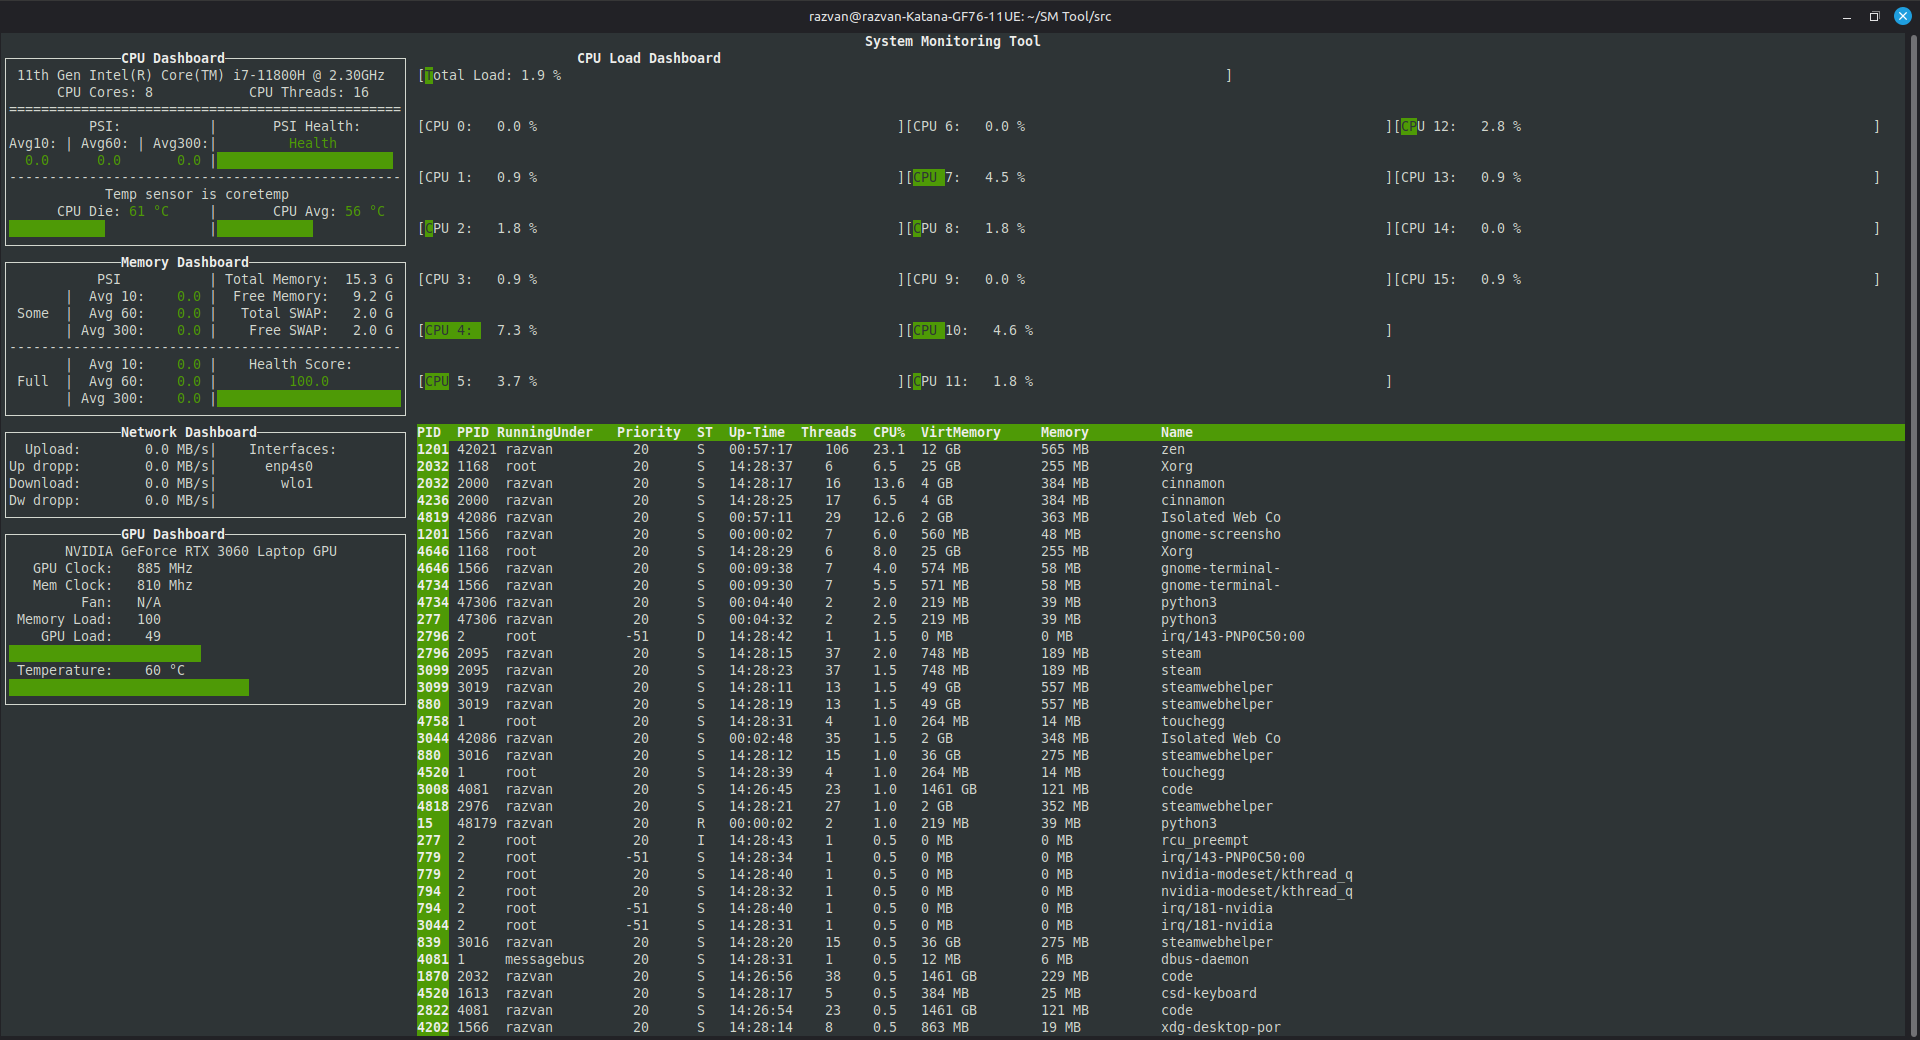
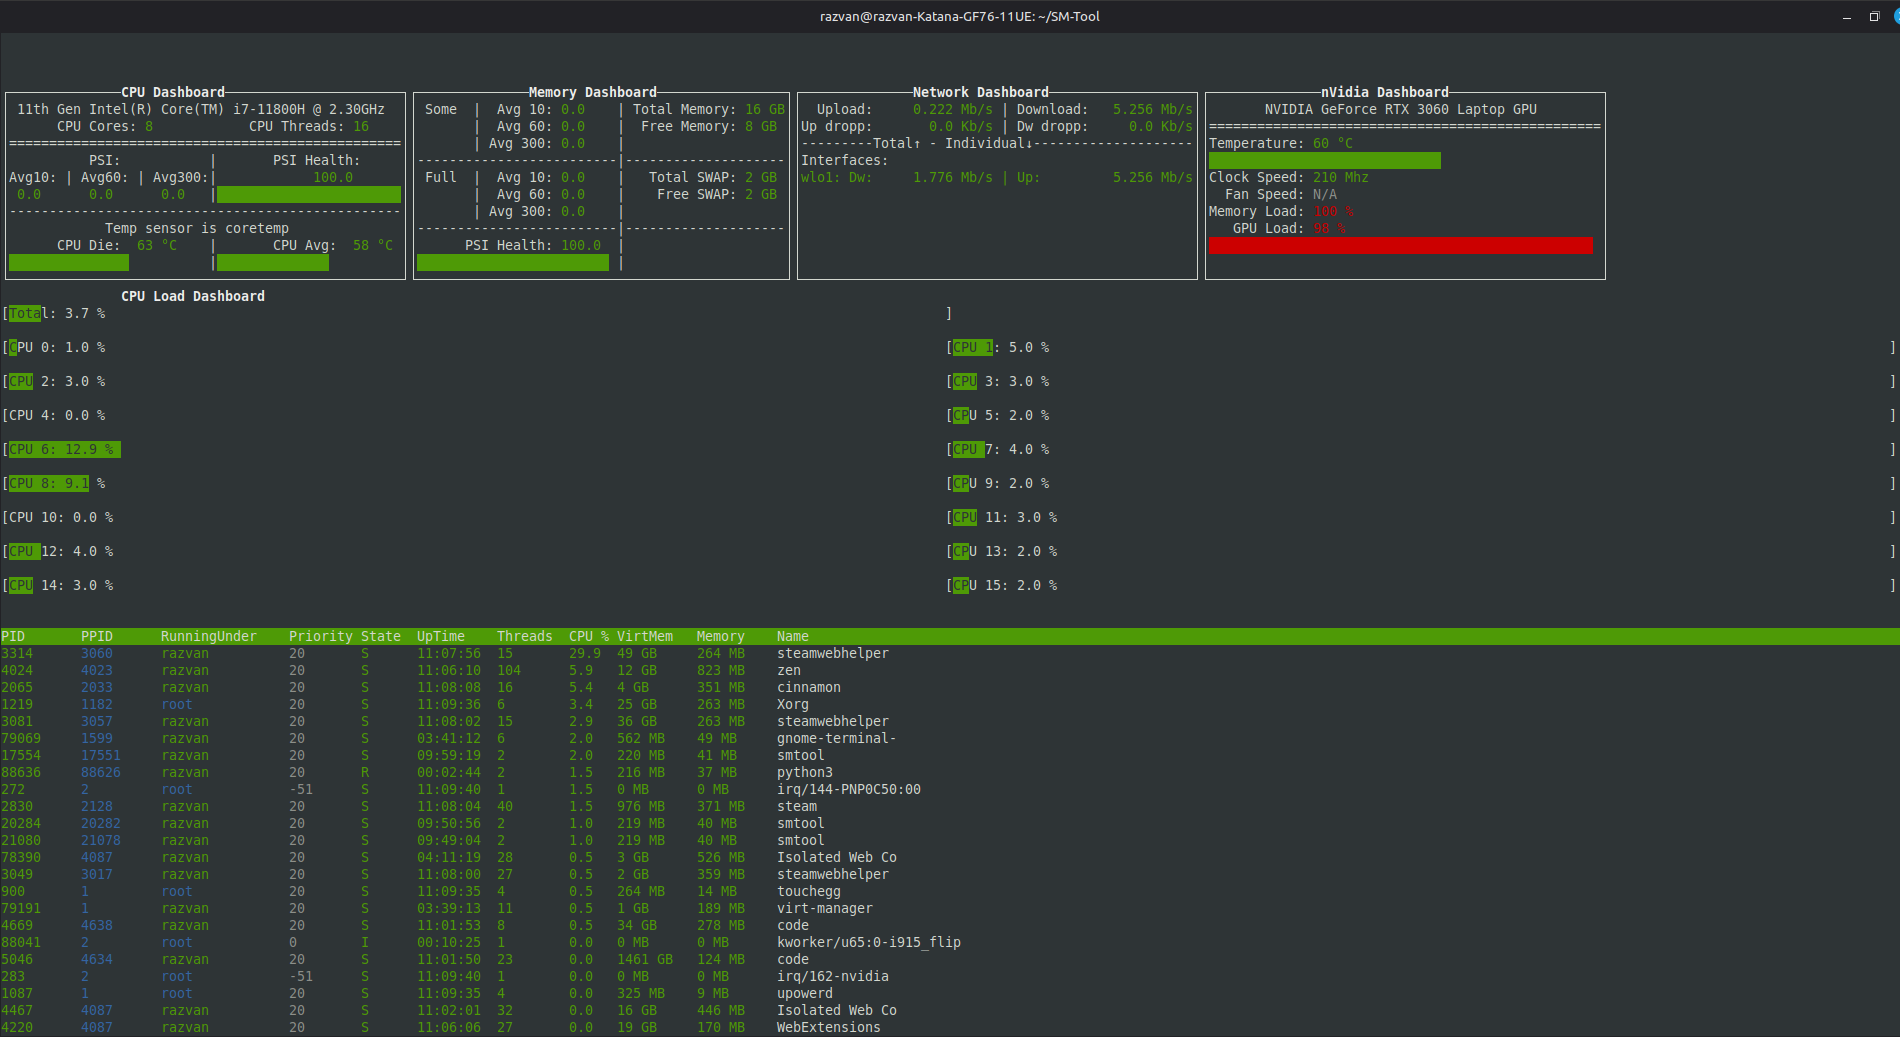
Reduced memory churn in the process dashboard. Small minor bugfixes

diff --git a/src/ui/formatters.py b/src/ui/formatters.py
@@ -13,7 +13,7 @@ def time_formatter(sec:float) -> str:
     sec= int(sec)
     h, remainder = divmod(sec, 3600)
     m, s = divmod(remainder, 60)
-    return f" {h:02}:{m:02}:{s:02} "
+    return f"{h:02}:{m:02}:{s:02} "
 
 class PressureFormatter:
     """
@@ -609,7 +609,7 @@ class NvidiaFormatter:
             formatted_nvidia_output[6].style= formatted_gpu_load_attr
 
 class ProcessFormatter:
-    __slots__ = ("formatted_processes_output",)
+    __slots__ = ("formatted_processes_output")
 
     def __init__(self):
         self.formatted_processes_output = []
@@ -630,39 +630,49 @@ class ProcessFormatter:
         for idx, (pid, process) in enumerate(processes.items()):
 
             if idx >= len(out):
-                out.append([None] * 11)
+                out.append([TextStyle("N/A", 3) for _ in range(11)])
 
             row = out[idx]
             proc_user = usernames[process.uid]
 
-            row[0] = (format(pid, "<10"), 0)
+            row[0].value = format(pid, "<10")
+            row[0].style= 0
 
-            row[1] = (format(process.ppid, "<10"), 5)
+            row[1].value = format(process.ppid, "<10")
+            row[1].style= 5
 
-            row[2] = (format(proc_user, "<16.16"), 0 if proc_user in current_users else (5 if proc_user == "root" else 3))
+            row[2].value = format(proc_user, "<16.16")
+            row[2].style = 0 if proc_user in current_users else (5 if proc_user == "root" else 3)
 
-            row[3] = (format(process.priority, "<9"), 3)
+            row[3].value = format(process.priority, "<9") 
+            row[3].style = 3
 
-            row[4] = (format(process.state, "<7"), 0)
+            row[4].value = format(process.state, "<7")
+            row[4].style = 0
 
-            row[5] = (time_formatter(process.process_up_time), 0)
+            row[5].value = time_formatter(process.process_up_time)
+            row[5].style = 0
 
-            row[6] = (format(process.num_threads, "<9"), 0)
+            row[6].value = format(process.num_threads, "<9")
+            row[6].style = 0
 
             cpu = process.cpu_load
-            row[7] = (format(cpu, "<6"), 0 if cpu < 50 else 1 if cpu < 80 else 2)
+            row[7].value = format(cpu, "<6.6")
+            row[7].style = 0 if cpu < 50 else 1 if cpu < 80 else 2
 
             if process.vsize > 1024:
-                row[8] = (f"{(process.vsize // 1024) * 1.048576:<10.0f} GB", 0)
+                row[8].value = f"{(process.vsize // 1024) * 1.048576:<1.0f} {"GB":<6}"
             else:
-                row[8] = (f"{process.vsize * 1.048576:<10.0f} MB", 0)
+                row[8].value = f"{process.vsize * 1.048576:<1.0f} {"MB":<6}"
+
+            row[8].style= 0
 
             if process.rss > 1024:
-                row[9] = (f"{(process.rss // 1024) * 1.048576:<10.0f} GB", 0)
+                row[9].value = f"{(process.rss // 1024) * 1.048576:<1.0f} {"GB":<6}"
             else:
-                row[9] = (f"{process.rss * 1.048576:<10.0f} MB", 0)
+                row[9].value = f"{process.rss * 1.048576:<1.0f} {"MB":<6}"
 
-            row[10] = (format(process.name, "<50"), 4)
+            row[9].style= 0
 
-
-            
+            row[10].value = format(process.name, "<50")
+            row[10].style= 4

diff --git a/src/ui/dashboards/processes.py b/src/ui/dashboards/processes.py
@@ -14,6 +14,7 @@ class ProcessDashboard:
         "__sorted_process_content_list",
         "__dashboard_disabled",
         "__widths",
+        "positions_list"
     )
 
     def __init__(self, stdscr: curses.window, cpu_load_max_y: int) -> object:
@@ -68,8 +69,6 @@ class ProcessDashboard:
 
     def visible_content(self, scroll_pos: int, sorted_process_list: list) -> list:
         list_length= len(sorted_process_list) - 1
-        if scroll_pos <0:
-            scroll_pos= 0
 
         if scroll_pos > list_length:
             scroll_pos= list_length
@@ -100,13 +99,21 @@ class ProcessDashboard:
             "Memory",
             "Name",
         )
-
+        
+        #pre-calculate the positions
+        positions_list= []
+        position_idx= 0
         # Build format string dynamically
         fmt_parts = []
         for w in __widths[:-1]:
+            position_idx+= w
+            positions_list.append(position_idx)
+
             fmt_parts.append(f"{{:<{w}}}")
+
         fmt_parts.append(f"{{:<{self.window_max_columns}}}")  # last column expands
 
+        self.positions_list= positions_list
         self.header_format= header_format = "".join(fmt_parts)
         header_line = header_format.format(*headers)
 
@@ -120,8 +127,9 @@ class ProcessDashboard:
         
         start_y= self.start_y + 1 #leave space for header
 
+        positions_list= self.positions_list
+
         window_max_columns= self.window_max_columns - 2
-        __widths= self.__widths
 
         style_map= self.style_map
 
@@ -129,21 +137,17 @@ class ProcessDashboard:
         process_dashboard= self.process_dashboard
 
         for row_idx, process in enumerate(__sorted_process_content_list):
-            text, style= process[0]
-            attr= style_map[style]
 
-            column_width= __widths[0]
+            attr= style_map[process[0].style]
 
-            process_dashboard.addnstr(start_y + row_idx, 0, text, window_max_columns - column_width, attr)
+            process_dashboard.addnstr(start_y + row_idx, 0, process[0].value, window_max_columns, attr)
             
-            for col in range(1, 11):
-                reading, style = process[col]
-                
-                column_width += __widths[col]
-                max_col_width= window_max_columns - column_width
+            for col in range(0, 10):
+                col_position= positions_list[col]
 
+                max_col_width= window_max_columns - col_position
                 if max_col_width < 1:
-                    continue
+                    break
 
-                attr= style_map[style]
-                process_dashboard.addnstr(reading, max_col_width, attr)
+                attr= style_map[process[col + 1].style]
+                process_dashboard.addnstr(start_y + row_idx, col_position, process[col + 1].value, max_col_width, attr)

diff --git a/src/readings/processes.py b/src/readings/processes.py
@@ -94,8 +94,9 @@ class ProcessMonitor:
             username_data[0]= "root"
         
         try:
-            for username in scandir(current_user_path):
-                current_user_data[username]= True
+            for username_folder in scandir(current_user_path):
+                username_string= username_data[int(username_folder.name)]
+                current_user_data[username_string]= True
         
         except FileNotFoundError:
             pass
@@ -114,15 +115,16 @@ class ProcessMonitor:
         sys_up_time= self._get_system_uptime()
 
         for proc_folder_path in scandir(self.__proc_path):
-            if data_length_index < data_length:
-                data_length_index+= 1
-            else:
-                break
             
             pid_proc_path= proc_folder_path.path
             pid_proc_string= proc_folder_path.name
             if not pid_proc_string.isdigit():
                     continue  
+            
+            if data_length_index < data_length:
+                data_length_index+= 1
+            else:
+                break
                 
             PID= int(pid_proc_string)
             current_pids.add(PID)

diff --git a/src/app.py b/src/app.py
@@ -103,12 +103,15 @@ class Application:
 
         while True:
             key= stdscr.getch()
+            window_max_lines, _ = stdscr.getmaxyx()
 
             if key == curses.KEY_UP:
                 self.scroll_pos += 1
+                self.scroll_pos= min(self.scroll_pos, window_max_lines)
                     
             if key == curses.KEY_DOWN:
                 self.scroll_pos -= 1
+                self.scroll_pos= max(0, self.scroll_pos)
             
             if key == curses.KEY_RESIZE:
                 stdscr= self.stdscr
